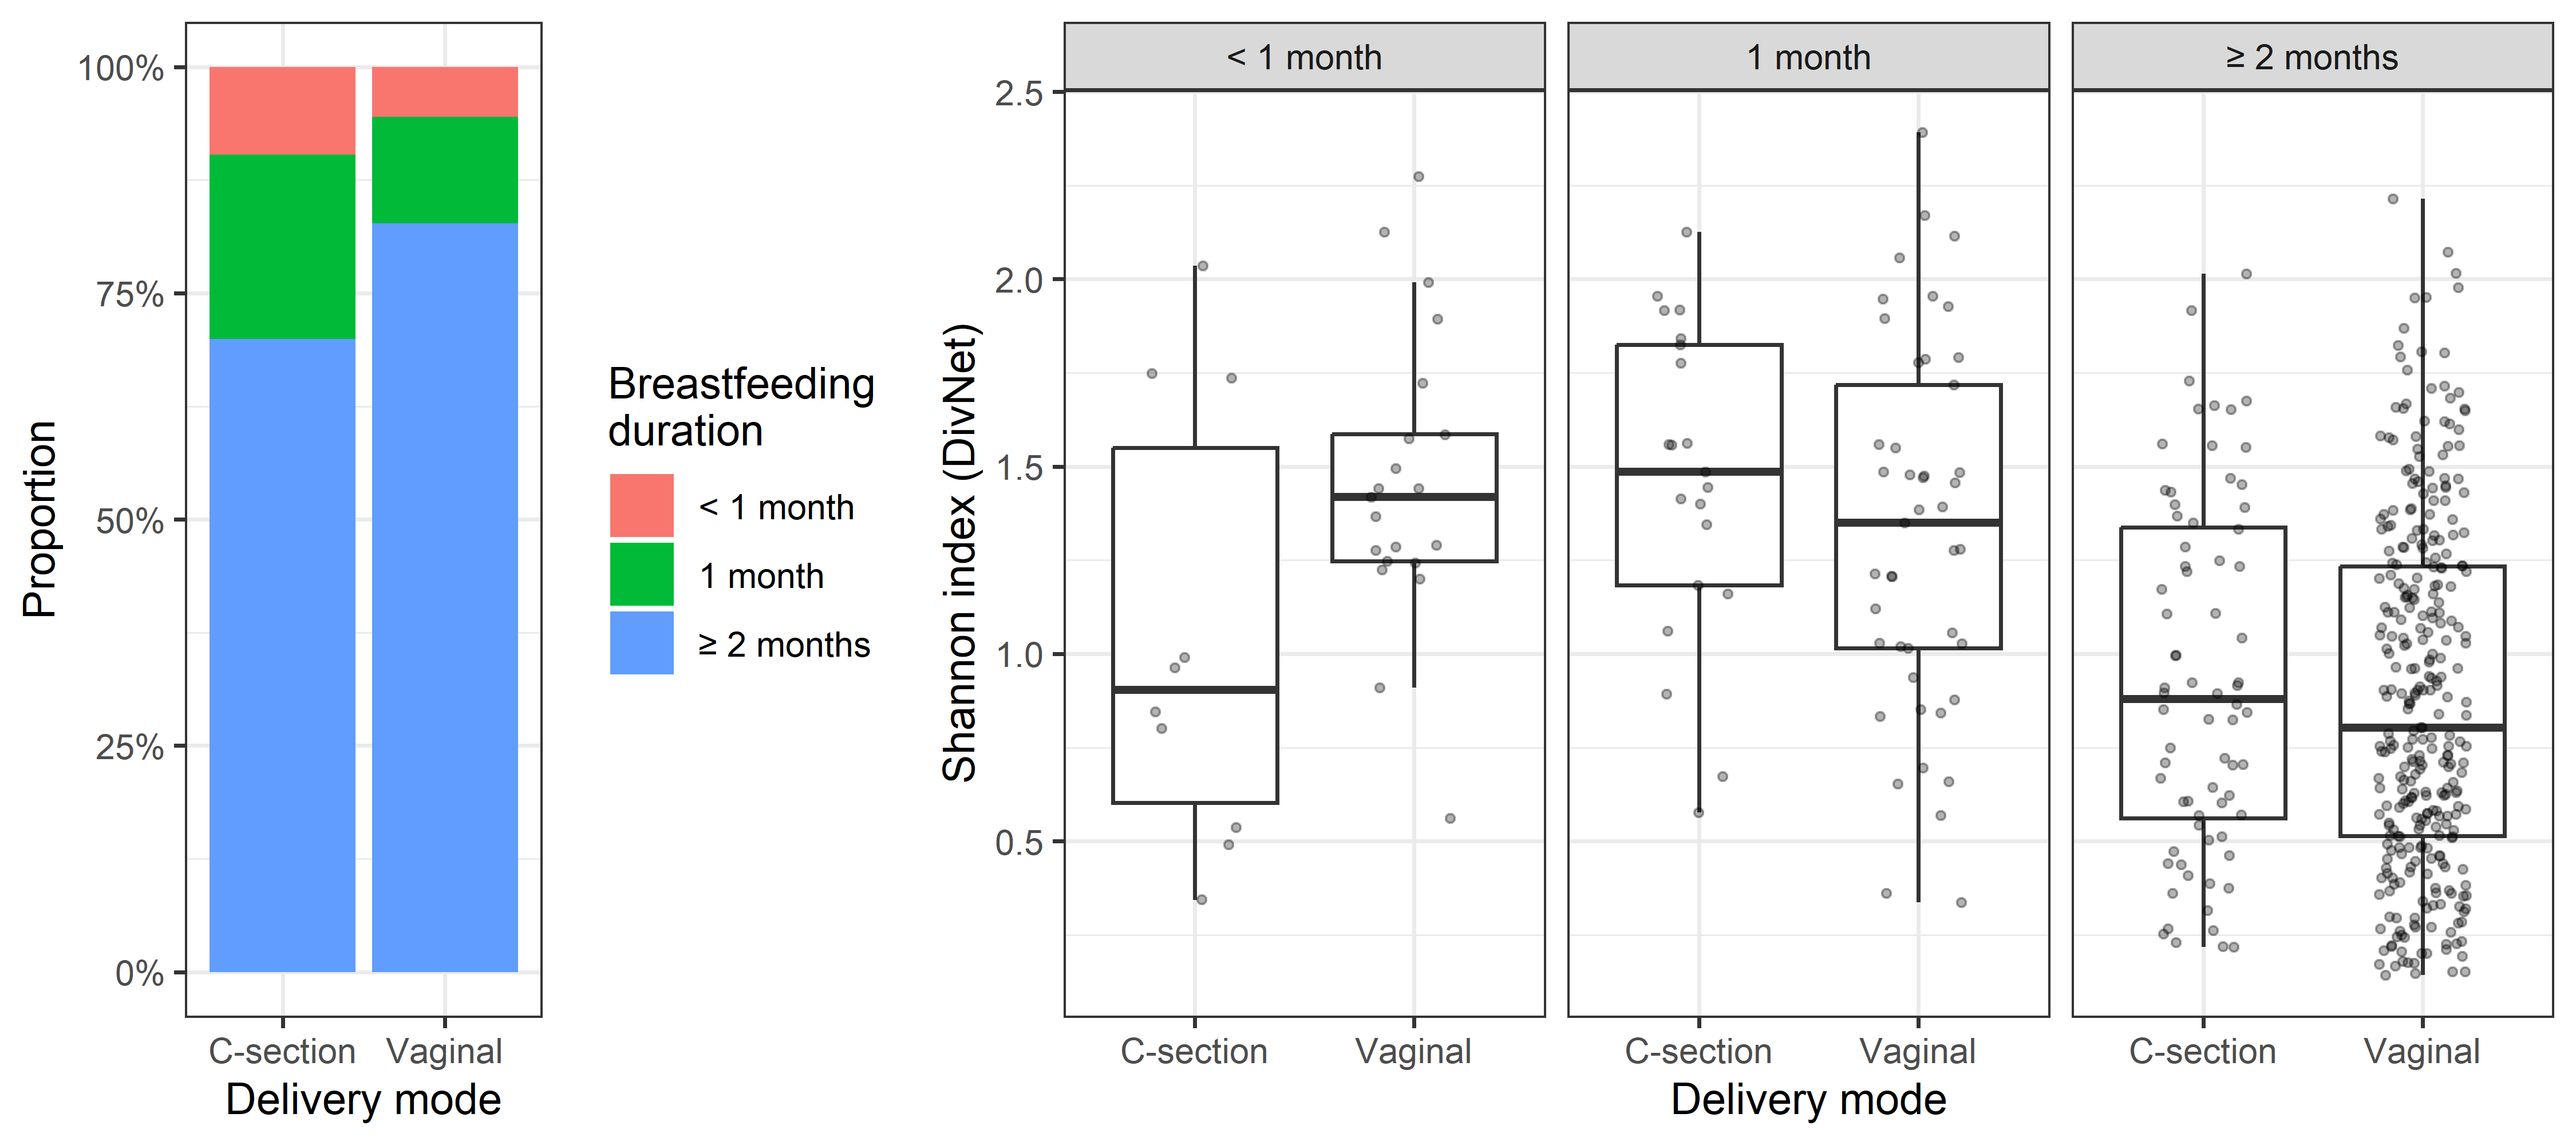
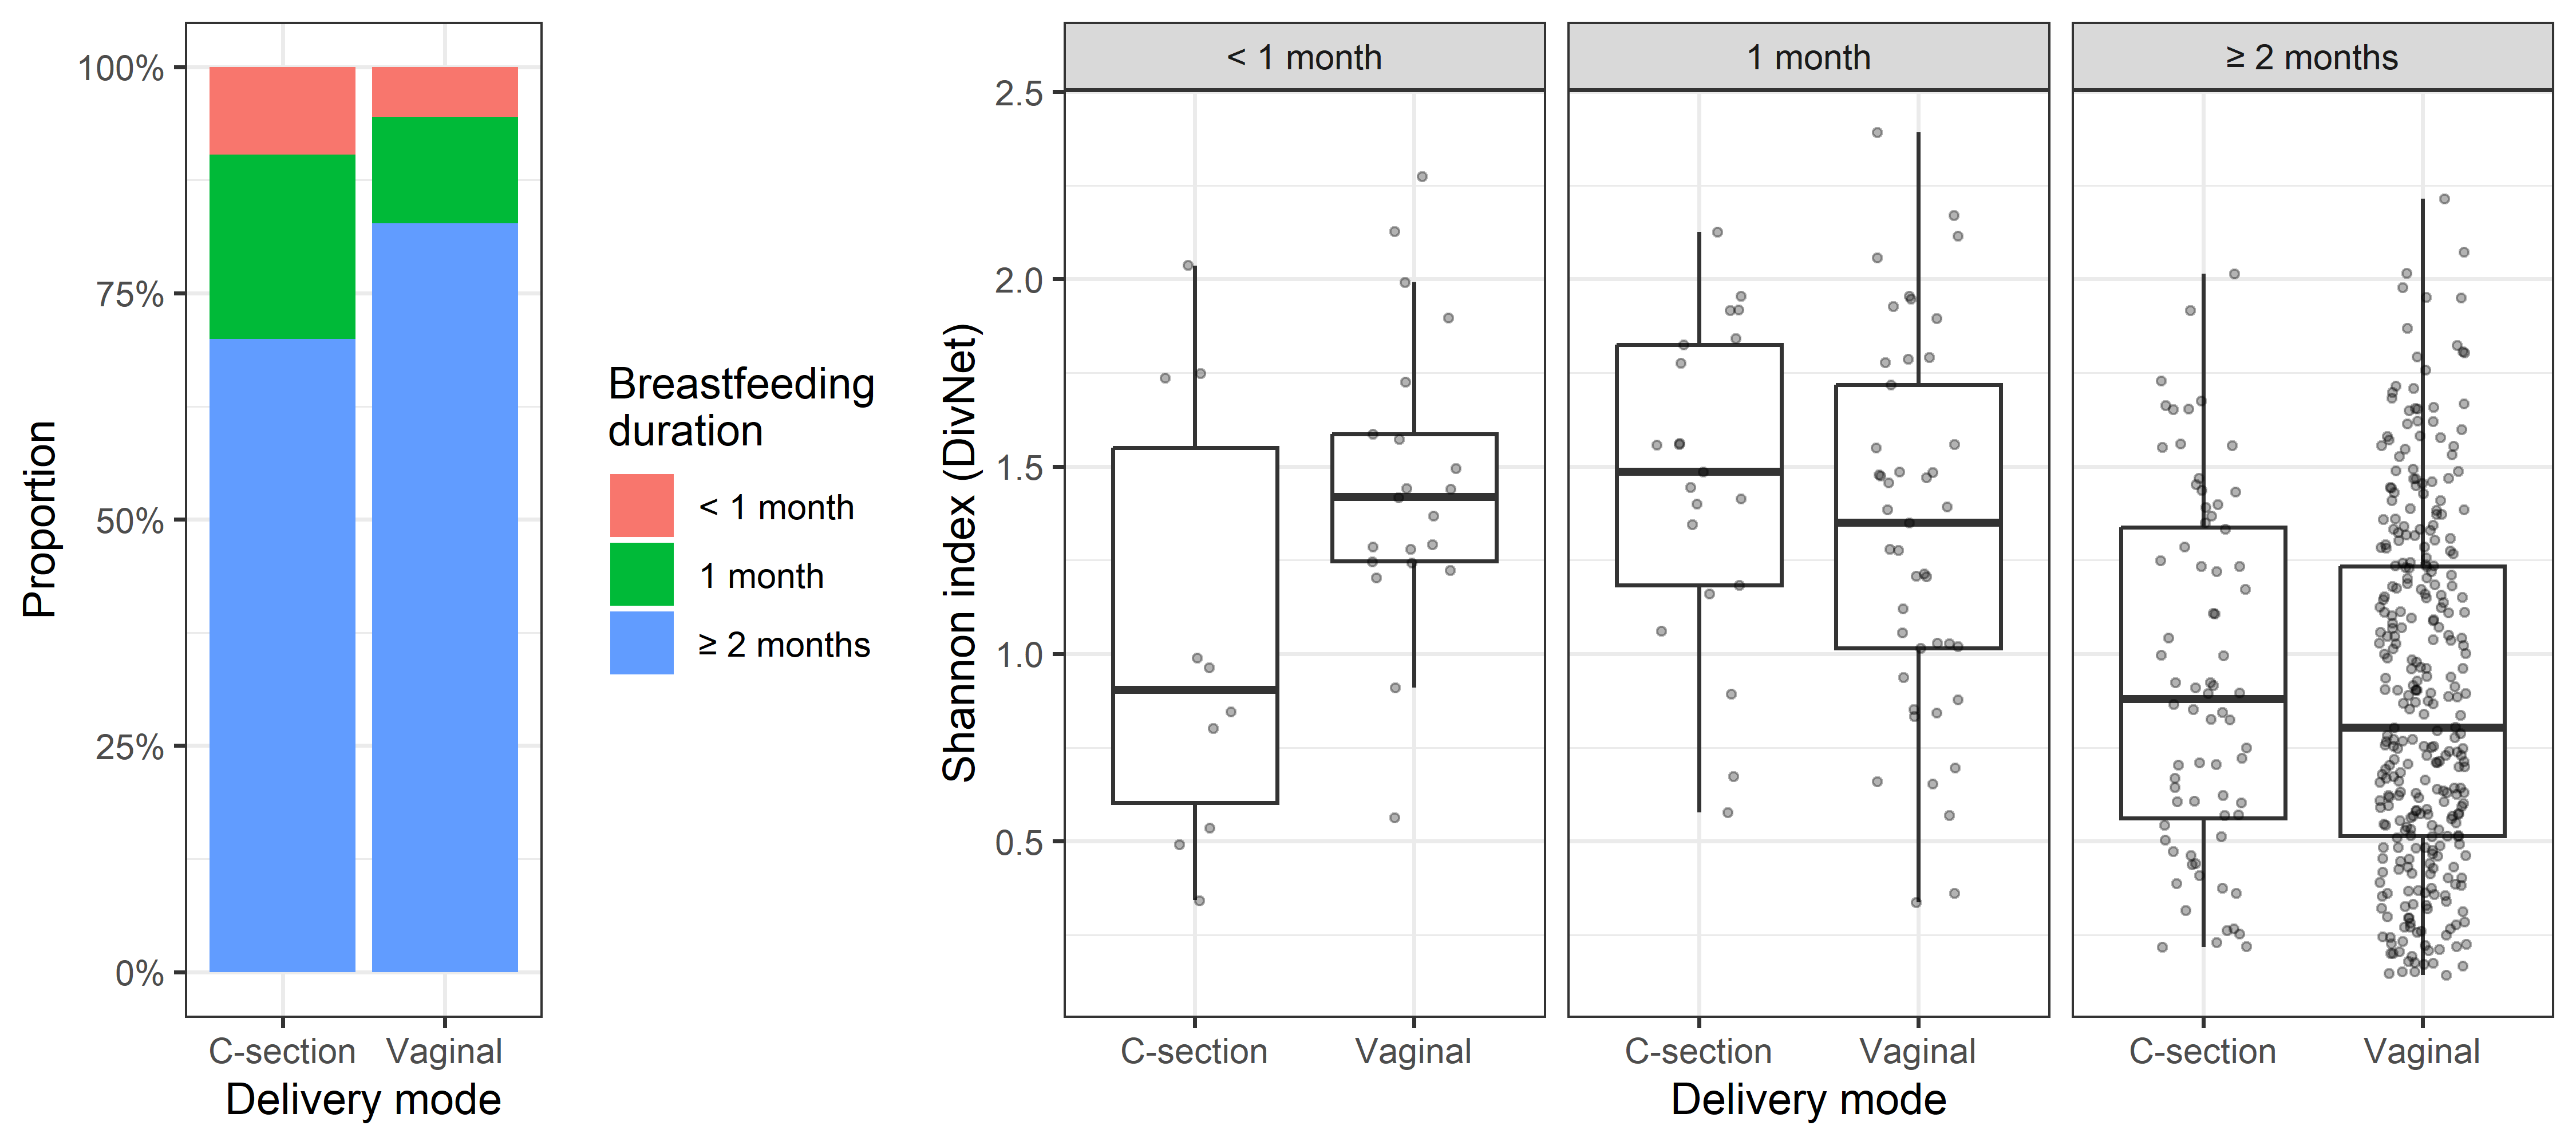
alpha diversity: add LaTeX table for p-value comparison

diff --git a/workflow/data/02_alpha_diversity/perm_table.tex b/workflow/data/02_alpha_diversity/perm_table.tex
@@ -1,0 +1,51 @@
+\begin{table}[!h]
+\centering
+\caption{\label{tab:tab:7app:perm_results}Kruskal--Wallis test results for alpha diversity across cohort variables. $H$ is the Kruskal--Wallis test statistic. Richness was estimated using \texttt{breakaway}; Shannon and Gini-Simpson were estimated using \texttt{DivNet}. $p$ (asymptotic): chi-squared approximation; $p$ (permutation): empirical permutation $p$-values ($10^6$ permutations); $p$ (GPD-refined): empirical $p$-values, refined with \texttt{permApprox}.}
+\centering
+\begin{threeparttable}
+\begin{tabular}[t]{l@{hspace{1.5em}}rrrr}
+\toprule
+Measure & $H$ & $p$ (asymptotic) & $p$ (permutation) & $p$ (GPD-refined)\\
+\midrule
+\addlinespace[0.3em]
+\multicolumn{5}{l}{\textbf{Country}}\\
+\hspace{1em}Richness & 31.57 & 1.40e-07$^{***}$ & 1.00e-06$^{***}$ & 1.99e-07$^{***}$\\
+\hspace{1em}Shannon & 40.06 & 2.00e-09$^{***}$ & 1.00e-06$^{***}$ & 3.01e-09$^{***}$\\
+\hspace{1em}Gini-Simpson & 39.88 & 2.19e-09$^{***}$ & 1.00e-06$^{***}$ & 4.89e-09$^{***}$\\
+\addlinespace[0.3em]
+\multicolumn{5}{l}{\textbf{Sex}}\\
+\hspace{1em}Richness & 1.79 & 1.80e-01 & 1.77e-01 & 1.77e-01\\
+\hspace{1em}Shannon & 1.85 & 1.73e-01 & 1.72e-01 & 1.72e-01\\
+\hspace{1em}Gini-Simpson & 2.10 & 1.47e-01 & 1.49e-01 & 1.49e-01\\
+\addlinespace[0.3em]
+\multicolumn{5}{l}{\textbf{C-section}}\\
+\hspace{1em}Richness & 0.33 & 5.64e-01 & 5.64e-01 & 5.64e-01\\
+\hspace{1em}Shannon & 4.86 & 2.74e-02$^{*}$ & 2.54e-02$^{*}$ & 2.50e-02$^{*}$\\
+\hspace{1em}Gini-Simpson & 5.73 & 1.67e-02$^{*}$ & 1.35e-02$^{*}$ & 1.43e-02$^{*}$\\
+\addlinespace[0.3em]
+\multicolumn{5}{l}{\textbf{Breastfeeding duration}}\\
+\hspace{1em}Richness & 7.69 & 2.14e-02$^{*}$ & 2.12e-02$^{*}$ & 2.12e-02$^{*}$\\
+\hspace{1em}Shannon & 83.47 & 7.51e-19$^{***}$ & 1.00e-06$^{***}$ & 1.44e-17$^{***}$\\
+\hspace{1em}Gini-Simpson & 73.49 & 1.10e-16$^{***}$ & 1.00e-06$^{***}$ & 4.69e-15$^{***}$\\
+\addlinespace[0.3em]
+\multicolumn{5}{l}{\textbf{Exclusive breastfeeding}}\\
+\hspace{1em}Richness & 2.73 & 9.84e-02$^{.}$ & 9.84e-02$^{.}$ & 9.84e-02$^{.}$\\
+\hspace{1em}Shannon & 65.13 & 7.02e-16$^{***}$ & 1.00e-06$^{***}$ & 5.18e-14$^{***}$\\
+\hspace{1em}Gini-Simpson & 56.47 & 5.71e-14$^{***}$ & 1.00e-06$^{***}$ & 5.04e-14$^{***}$\\
+\addlinespace[0.3em]
+\multicolumn{5}{l}{\textbf{Prenatal smoking}}\\
+\hspace{1em}Richness & 3.95 & 4.70e-02$^{*}$ & 4.69e-02$^{*}$ & 4.69e-02$^{*}$\\
+\hspace{1em}Shannon & 18.81 & 1.45e-05$^{***}$ & 1.30e-05$^{***}$ & 1.01e-05$^{***}$\\
+\hspace{1em}Gini-Simpson & 18.08 & 2.12e-05$^{***}$ & 1.60e-05$^{***}$ & 1.47e-05$^{***}$\\
+\addlinespace[0.3em]
+\multicolumn{5}{l}{\textbf{Number of siblings}}\\
+\hspace{1em}Richness & 1.41 & 4.94e-01 & 4.97e-01 & 4.97e-01\\
+\hspace{1em}Shannon & 2.66 & 2.64e-01 & 2.61e-01 & 2.61e-01\\
+\hspace{1em}Gini-Simpson & 3.04 & 2.18e-01 & 2.20e-01 & 2.20e-01\\
+\bottomrule
+\end{tabular}
+\begin{tablenotes}
+\item $^{***}:p<0.001$; $^{**}:p<0.01$; $^{*}:p<0.05$; $^{.}:p<0.1$.
+\end{tablenotes}
+\end{threeparttable}
+\end{table}

diff --git a/workflow/02_alpha_diversity.md b/workflow/02_alpha_diversity.md
@@ -1,6 +1,10 @@
 Alpha diversity analysis
 ================
-Compiled at 2026-05-05 21:43:34 UTC
+Compiled at 2026-05-05 22:43:45 UTC
+
+``` r
+here::i_am(paste0(params$name, ".Rmd"), uuid = "41b33e9b-a351-49eb-bdc8-cdeddd77796c")
+```
 
 ## Load packages
 
@@ -327,6 +331,14 @@ Computing alpha diversity the common way (not model-based) using the
 
 ### Breakaway richness
 
+    ## Warning: `aes_string()` was deprecated in ggplot2 3.0.0.
+    ## ℹ Please use tidy evaluation idioms with `aes()`.
+    ## ℹ See also `vignette("ggplot2-in-packages")` for more information.
+    ## ℹ The deprecated feature was likely used in the breakaway package.
+    ##   Please report the issue at <https://github.com/adw96/breakaway/issues>.
+    ## This warning is displayed once per session.
+    ## Call `lifecycle::last_lifecycle_warnings()` to see where this warning was generated.
+
 ### Comparison: classical vs. breakaway
 
 Observed (classical) richness simply counts the number of non-zero ASVs
@@ -369,6 +381,13 @@ sample) to assess how strongly each is confounded by sequencing depth.
 Computing richness the common way (not model-based) using the
 `estimate_richness` function from `phyloseq` package.
 
+    ## Warning in estimate_richness(phylo_genus): The data you have provided does not have
+    ## any singletons. This is highly suspicious. Results of richness
+    ## estimates (for example) are probably unreliable, or wrong, if you have already
+    ## trimmed low-abundance taxa from the data.
+    ## 
+    ## We recommended that you find the un-trimmed data and retry.
+
     ##         Observed Chao1 se.chao1 ACE   se.ACE   Shannon   Simpson InvSimpson   Fisher
     ## s025647       40    40        0  40 2.641023 1.8370941 0.7583242   4.137775 4.564899
     ## s023779       29    29        0  29 2.491364 0.6123431 0.2157674   1.275132 3.179224
@@ -378,6 +397,10 @@ Computing richness the common way (not model-based) using the
     ## s028386       22    22        0  22 1.809068 1.2379658 0.6065971   2.541923 2.329049
 
 ### Breakaway richness
+
+    ## Warning in build_frequency_count_tables(otutab_genus): More columns then rows. You probably need to transpose your data.
+
+    ## Warning in poisson_model(input_data, cutoff = cutoff): Cut-off was too low: no data available for estimation
 
     ##         SampleID richness
     ## s025647  s025647 40.07097
@@ -631,6 +654,8 @@ the 484 samples with complete covariate data.
 
 #### Richness
 
+    ## Warning in poisson_model(input_data, cutoff = cutoff): Cut-off was too low: no data available for estimation
+
     ##                      Estimates Standard Errors     p-values
     ## (Intercept)         22.7682153       0.2920787 0.000000e+00
     ## CountryGermany       3.9133662       0.4913796 1.554312e-15
@@ -709,6 +734,11 @@ are responsible — that is addressed by the individual p-values in
 
 #### Combined coefficient plot
 
+    ## Warning: `geom_errorbarh()` was deprecated in ggplot2 4.0.0.
+    ## ℹ Please use the `orientation` argument of `geom_errorbar()` instead.
+    ## This warning is displayed once per session.
+    ## Call `lifecycle::last_lifecycle_warnings()` to see where this warning was generated.
+
     ## `height` was translated to `width`.
 
 ![](figures/02_alpha_diversity/alpha_betta_forest_combined-1.png)<!-- -->
@@ -737,7 +767,7 @@ substantially attenuated or absent.
 These files have been written to the target directory,
 `data/02_alpha_diversity`:
 
-    ## # A tibble: 13 × 4
+    ## # A tibble: 14 × 4
     ##    path                            type         size modification_time  
     ##    <fs::path>                      <fct> <fs::bytes> <dttm>             
     ##  1 breakaway_rich_full.rds         file       30.51K 2026-05-05 19:59:06
@@ -753,3 +783,4 @@ These files have been written to the target directory,
     ## 11 perm_results_Prenatal_smoke.rds file       10.08M 2026-05-04 18:18:54
     ## 12 perm_results_Sex.rds            file          250 2026-05-04 15:39:34
     ## 13 perm_results_Siblings.rds       file          254 2026-05-04 15:39:52
+    ## 14 perm_table.tex                  file        2.94K 2026-05-05 22:44:14